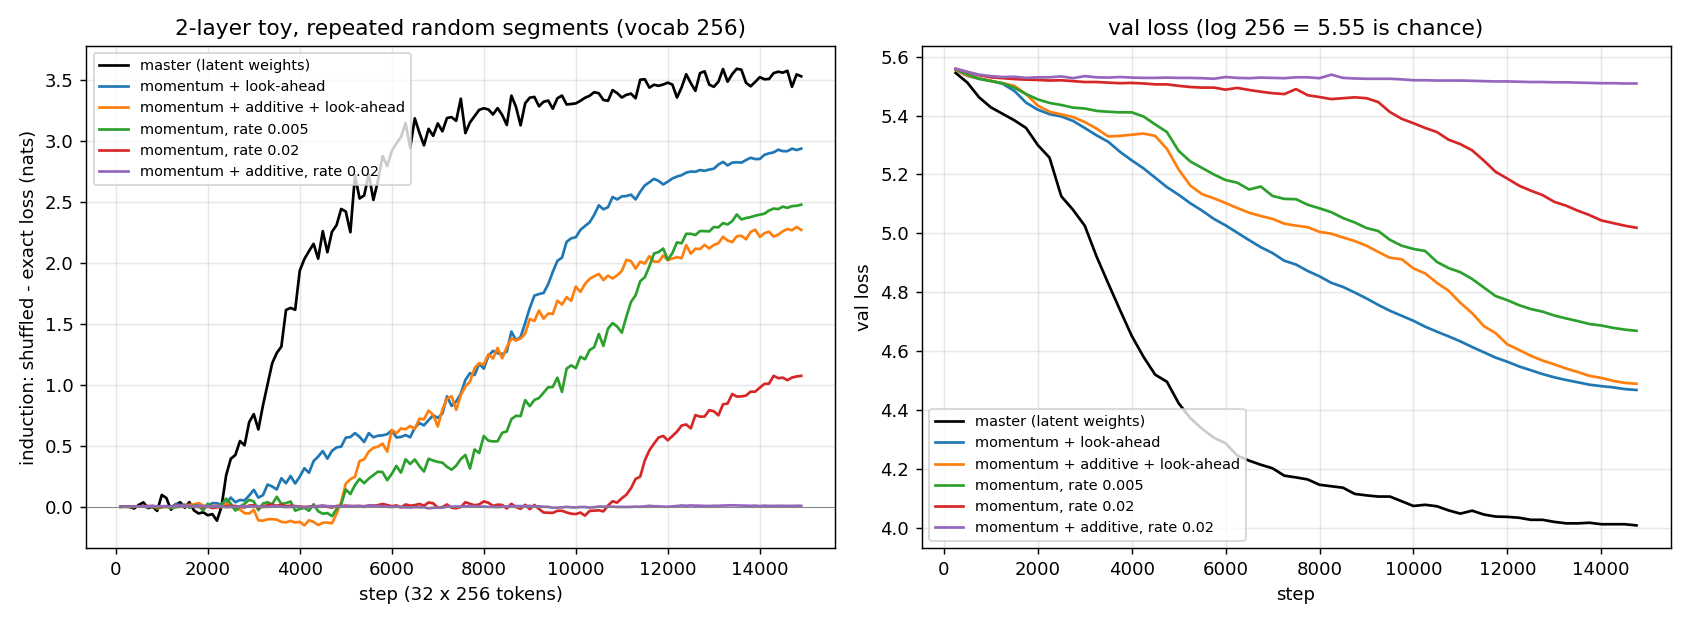
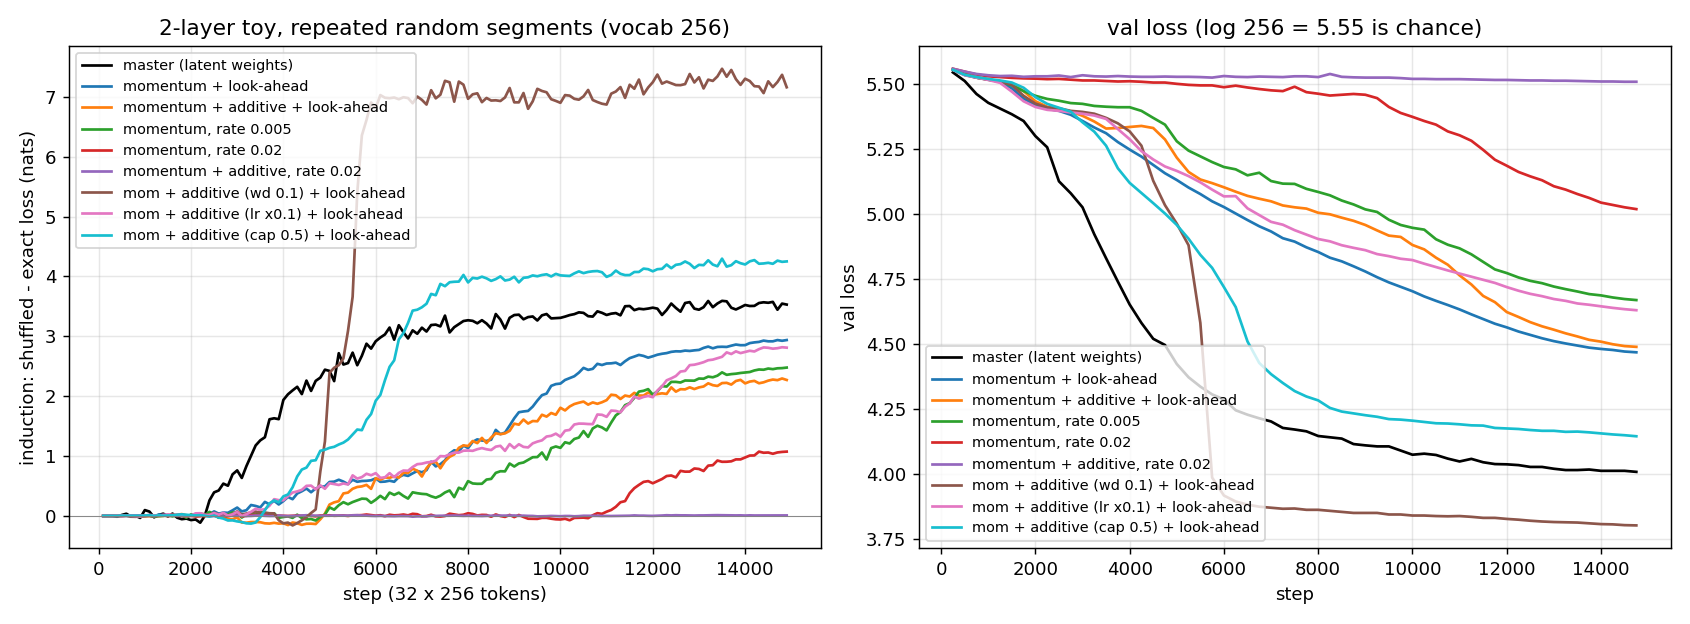
Toy: loader restores --mag_cap; adapter fix arms on the plot

diff --git a/scripts/plots/plot_toy.py b/scripts/plots/plot_toy.py
@@ -5,7 +5,10 @@ import matplotlib.pyplot as plt
 
 ARMS = [("master", "master (latent weights)", "k"), ("mom_la", "momentum + look-ahead", "C0"),
         ("mom_add_la", "momentum + additive + look-ahead", "C1"), ("mom_r005", "momentum, rate 0.005", "C2"),
-        ("mom", "momentum, rate 0.02", "C3"), ("mom_add", "momentum + additive, rate 0.02", "C4")]
+        ("mom", "momentum, rate 0.02", "C3"), ("mom_add", "momentum + additive, rate 0.02", "C4"),
+        ("add_la_wd01", "mom + additive (wd 0.1) + look-ahead", "C5"),
+        ("add_la_lr01", "mom + additive (lr x0.1) + look-ahead", "C6"),
+        ("add_la_cap05", "mom + additive (cap 0.5) + look-ahead", "C9")]
 fig, (a, b) = plt.subplots(1, 2, figsize=(13, 4.8))
 for n, lab, c in ARMS:
     S, I = [], []

diff --git a/scripts/analysis/induction_heads.py b/scripts/analysis/induction_heads.py
@@ -51,6 +51,7 @@ def load(path, kind):
         for l in m.modules():
             if isinstance(l, KernelTernaryLinear):
                 l.enable_lowrank_mag(os.environ.get("MAG_KIND", "add"), r)
+                l.mag_cap = float(os.environ.get("MAG_CAP", 0))       # runs with --mag_cap
     if any(k.endswith("qk_logscale") for k in b["model"]):       # runs with --qk_temp
         for a in m.modules():
             if isinstance(a, BM.Attention):
